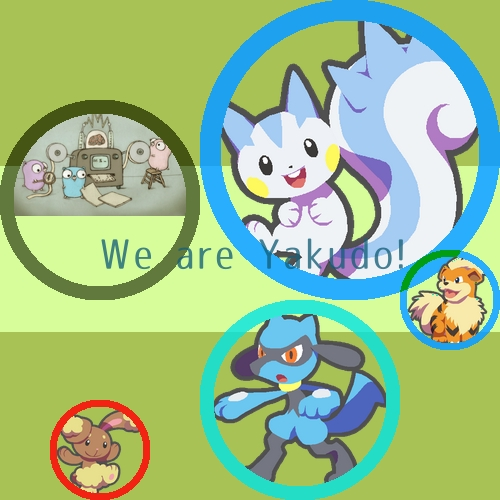
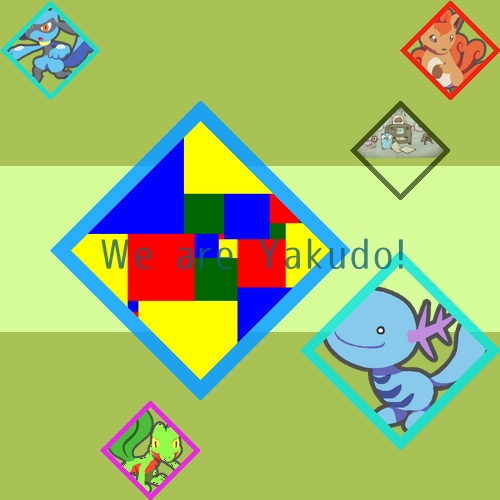
diamond

diff --git a/draw/mask.go b/draw/mask.go
@@ -83,12 +83,20 @@ func getImageFromLocal(imgUrl string) (image.Image, error) {
 	return originImg, nil
 }
 
-// 円形に切り取る
+// 画像を切り取る
 func cutImage(in *image.Image, frameType int, col color.Color, r int) *image.RGBA {
 	// 土台となる無地のimage
 	out := image.NewRGBA(image.Rect(0, 0, 2*r, 2*r))
+	var mask image.Image
 	// 円形以外の場合はここを変える
-	mask := &circle{image.Pt(r, r), r}
+	switch frameType {
+	case DIAMOND:
+		mask = &diamond{image.Pt(r, r), r}
+	case CIRCLE:
+		mask = &circle{image.Pt(r, r), r}
+	default:
+		mask = &diamond{image.Pt(r, r), r}
+	}
 	// 画像切り取り
 	draw.DrawMask(out, out.Bounds(), *in, image.ZP, mask, image.ZP, draw.Over)
 	// 枠
@@ -97,7 +105,31 @@ func cutImage(in *image.Image, frameType int, col color.Color, r int) *image.RGB
 }
 
 // 枠を書く
-func drawBounds(img *image.RGBA, frameType int, col color.Color, r int) {
+func drawBounds(out *image.RGBA, frameType int, col color.Color, r int) {
+	switch frameType {
+	case DIAMOND:
+		drawDiamondBounds(out, frameType, col, r)
+	case CIRCLE:
+		drawCircleBounds(out, frameType, col, r)
+	default:
+		drawDiamondBounds(out, frameType, col, r)
+	}
+
+}
+
+func drawDiamondBounds(img *image.RGBA, frameType int, col color.Color, r int) {
+	bold := r / 7
+	for i := 0; i < r; i++ {
+		for j := 0; j < bold && i+j <= r; j++ {
+			img.Set(i+j, r-i, col)
+			img.Set(i+j, r+i, col)
+			img.Set(2*r-i-j, r+i, col)
+			img.Set(2*r-i-j, r-i, col)
+		}
+	}
+
+}
+func drawCircleBounds(img *image.RGBA, frameType int, col color.Color, r int) {
 	bold := r / 7
 	// TODO radianの刻みもIMAGE_SIZEによって変えるべき
 	for rad := 0.0; rad < 2.0*float64(r); rad += 0.01 {
@@ -112,6 +144,7 @@ func drawBounds(img *image.RGBA, frameType int, col color.Color, r int) {
 
 // *************************************************************** //
 // 画像マスク用
+// interface image.Image
 
 type circle struct {
 	p image.Point
@@ -133,3 +166,25 @@ func (c *circle) At(x, y int) color.Color {
 	}
 	return color.Alpha{0}
 }
+
+type diamond struct {
+	p image.Point
+	r int
+}
+
+func (d *diamond) ColorModel() color.Model {
+	return color.AlphaModel
+}
+
+func (d *diamond) Bounds() image.Rectangle {
+	return image.Rect(d.p.X-d.r, d.p.Y-d.r, d.p.X+d.r, d.p.Y+d.r)
+}
+
+func (d *diamond) At(x, y int) color.Color {
+	if y > x-d.r && y < x+d.r && y > -x+d.r && y < -x+3*d.r {
+		return color.Alpha{255}
+	}
+	return color.Alpha{0}
+}
+
+// *************************************************************** //

diff --git a/draw/iconparts.go b/draw/iconparts.go
@@ -26,11 +26,13 @@ func NewIconList(cards []model.Card) []*Icon {
 
 	var icons []*Icon
 
+	rand.Seed(time.Now().UnixNano())
+
 	// iconを配置する場所をランダムに決定
 	boad := NewBoad()
 	iconNum := len(cards)
+	frameType := rand.Intn(2)
 
-	rand.Seed(time.Now().UnixNano())
 	var rnum int
 
 	for i := 0; i < iconNum; i++ {
@@ -40,6 +42,7 @@ func NewIconList(cards []model.Card) []*Icon {
 		rnum = rand.Intn(len(cards))
 		icon.ImageUrl = cards[rnum].ImageUrl.String
 		icon.FrameColor = getFrameColor(cards[rnum].EmoID)
+		icon.FrameType = frameType
 		cards = append(cards[:rnum], cards[rnum+1:]...)
 
 		// 設置場所

diff --git a/draw/constants.go b/draw/constants.go
@@ -12,8 +12,8 @@ const BOAD_SIZE = OUT_OF_BOAD*2 + 11
 const WIDTH = IMG_SIZE / 10
 
 const (
-	DIAMOND = iota
-	CIRCLE
+	DIAMOND = 0
+	CIRCLE  = 1
 )
 
 const FONT_PATH = "./fonts/07LogoTypeGothic-Condense.ttf"
